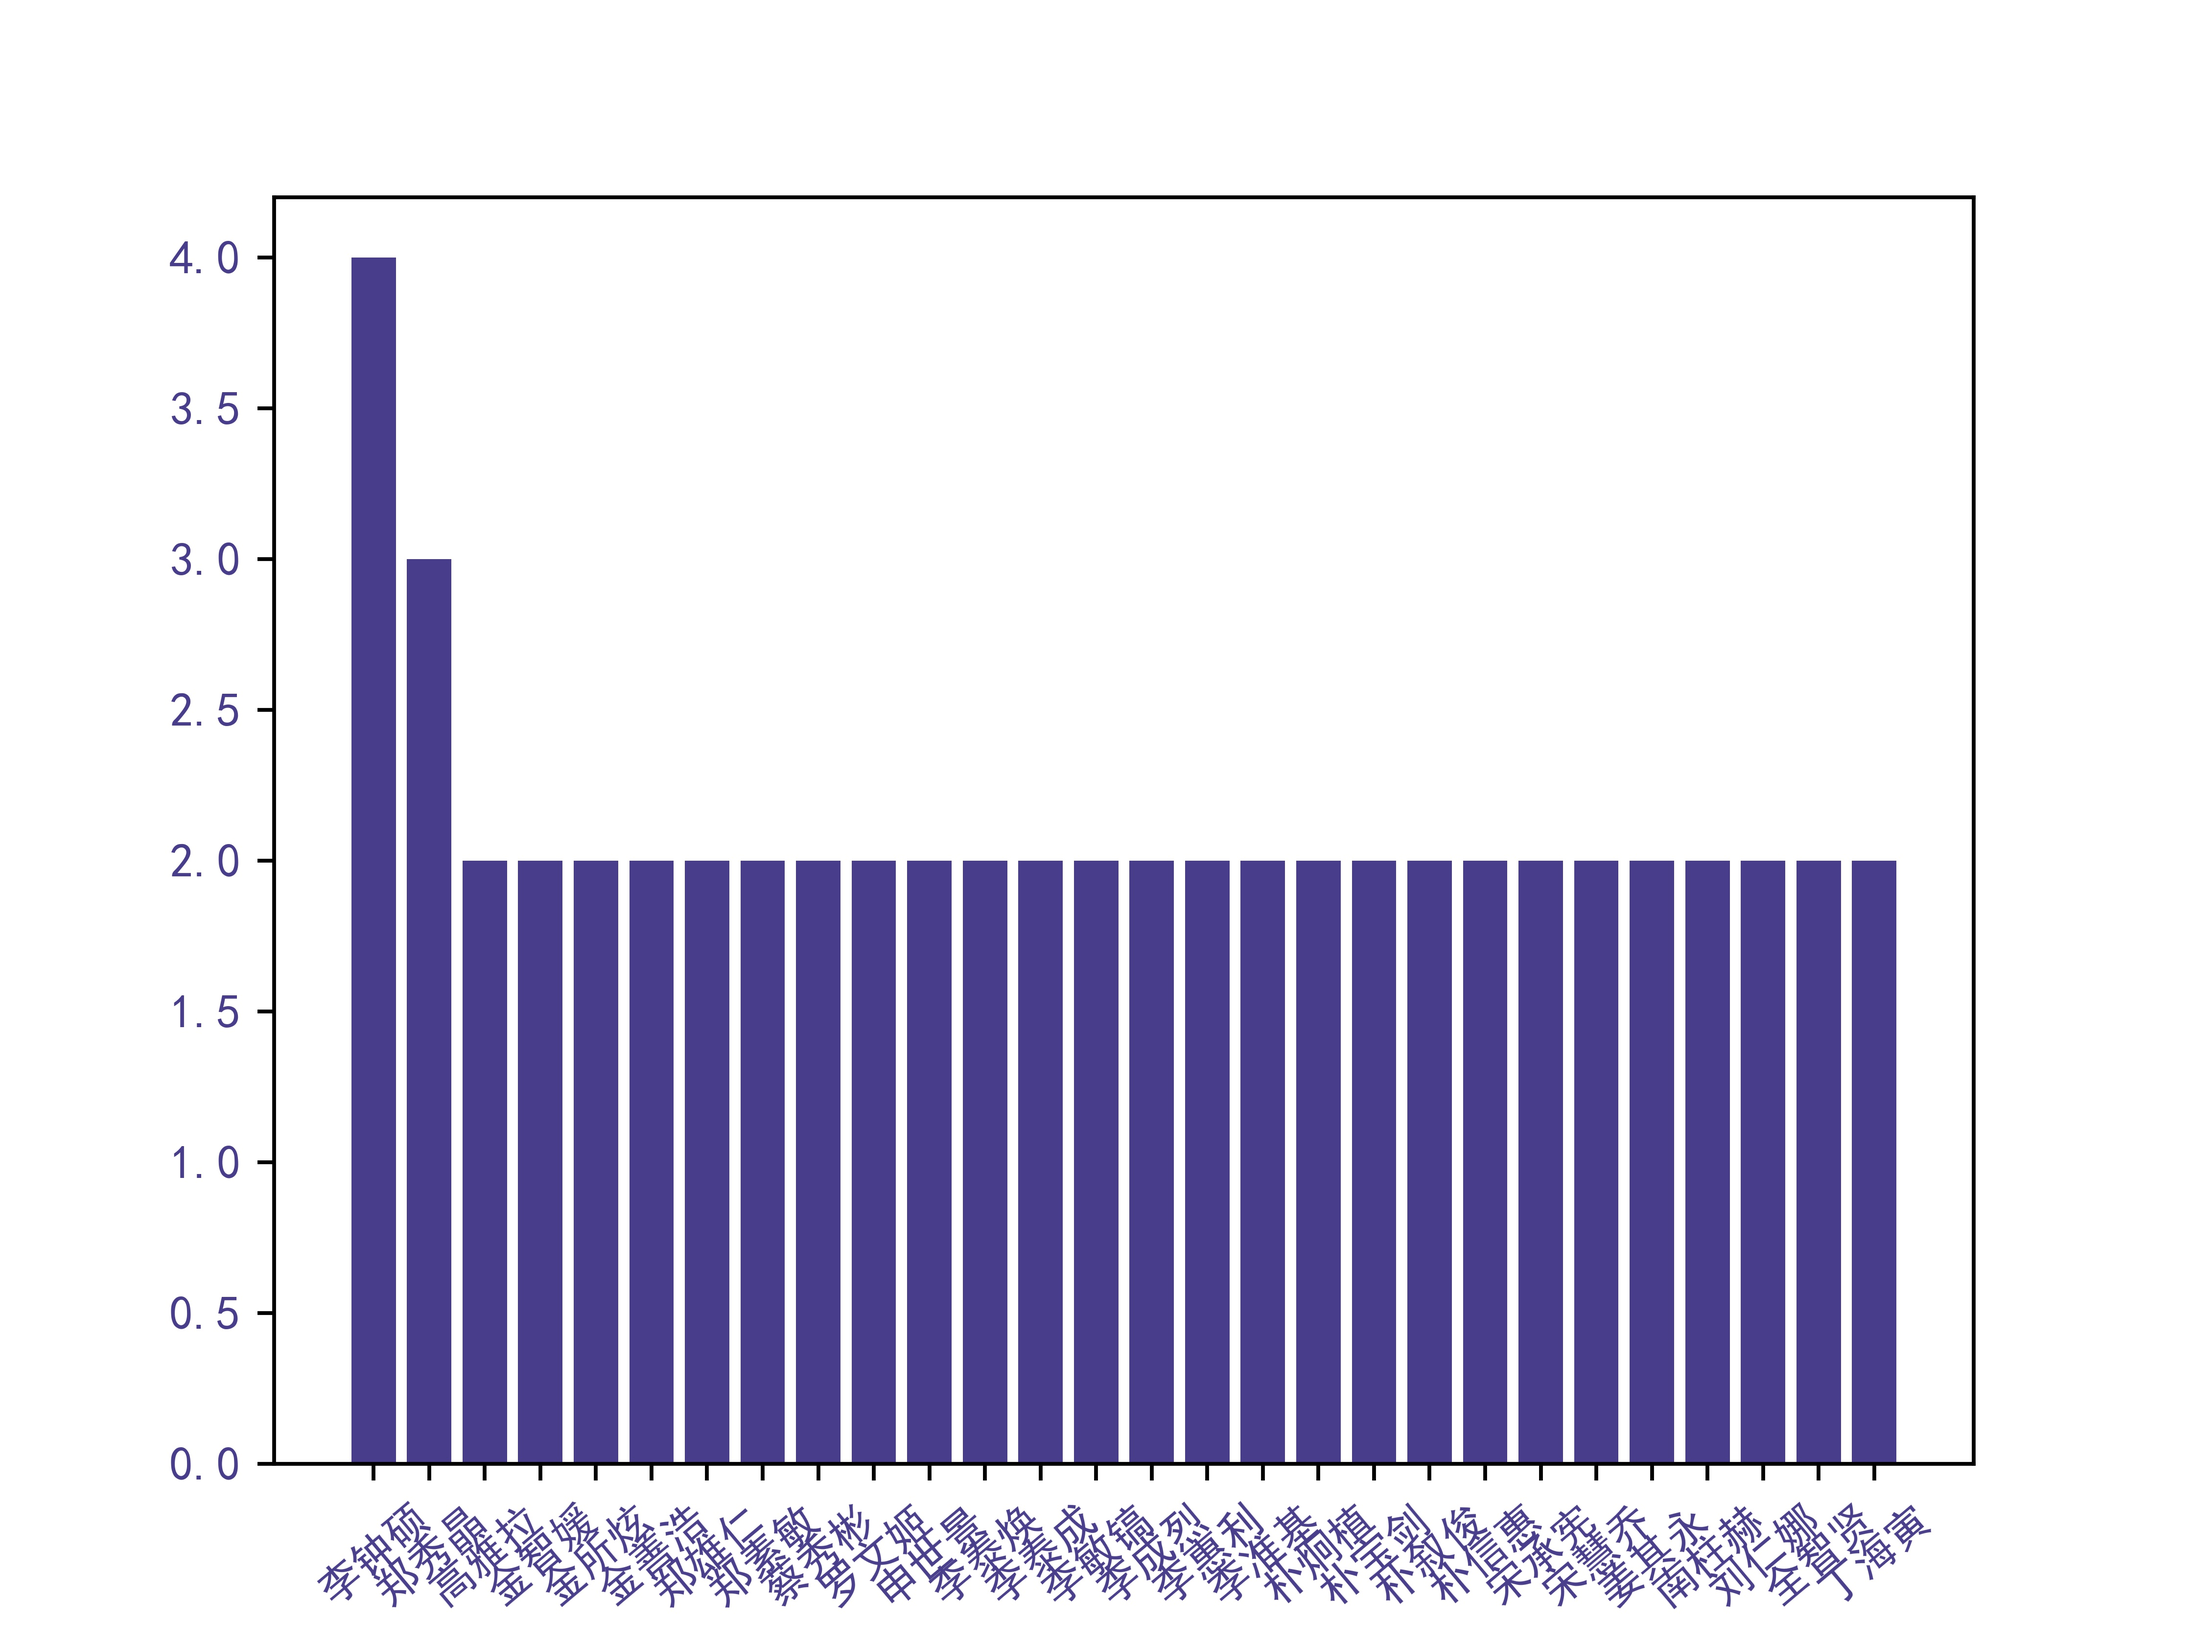
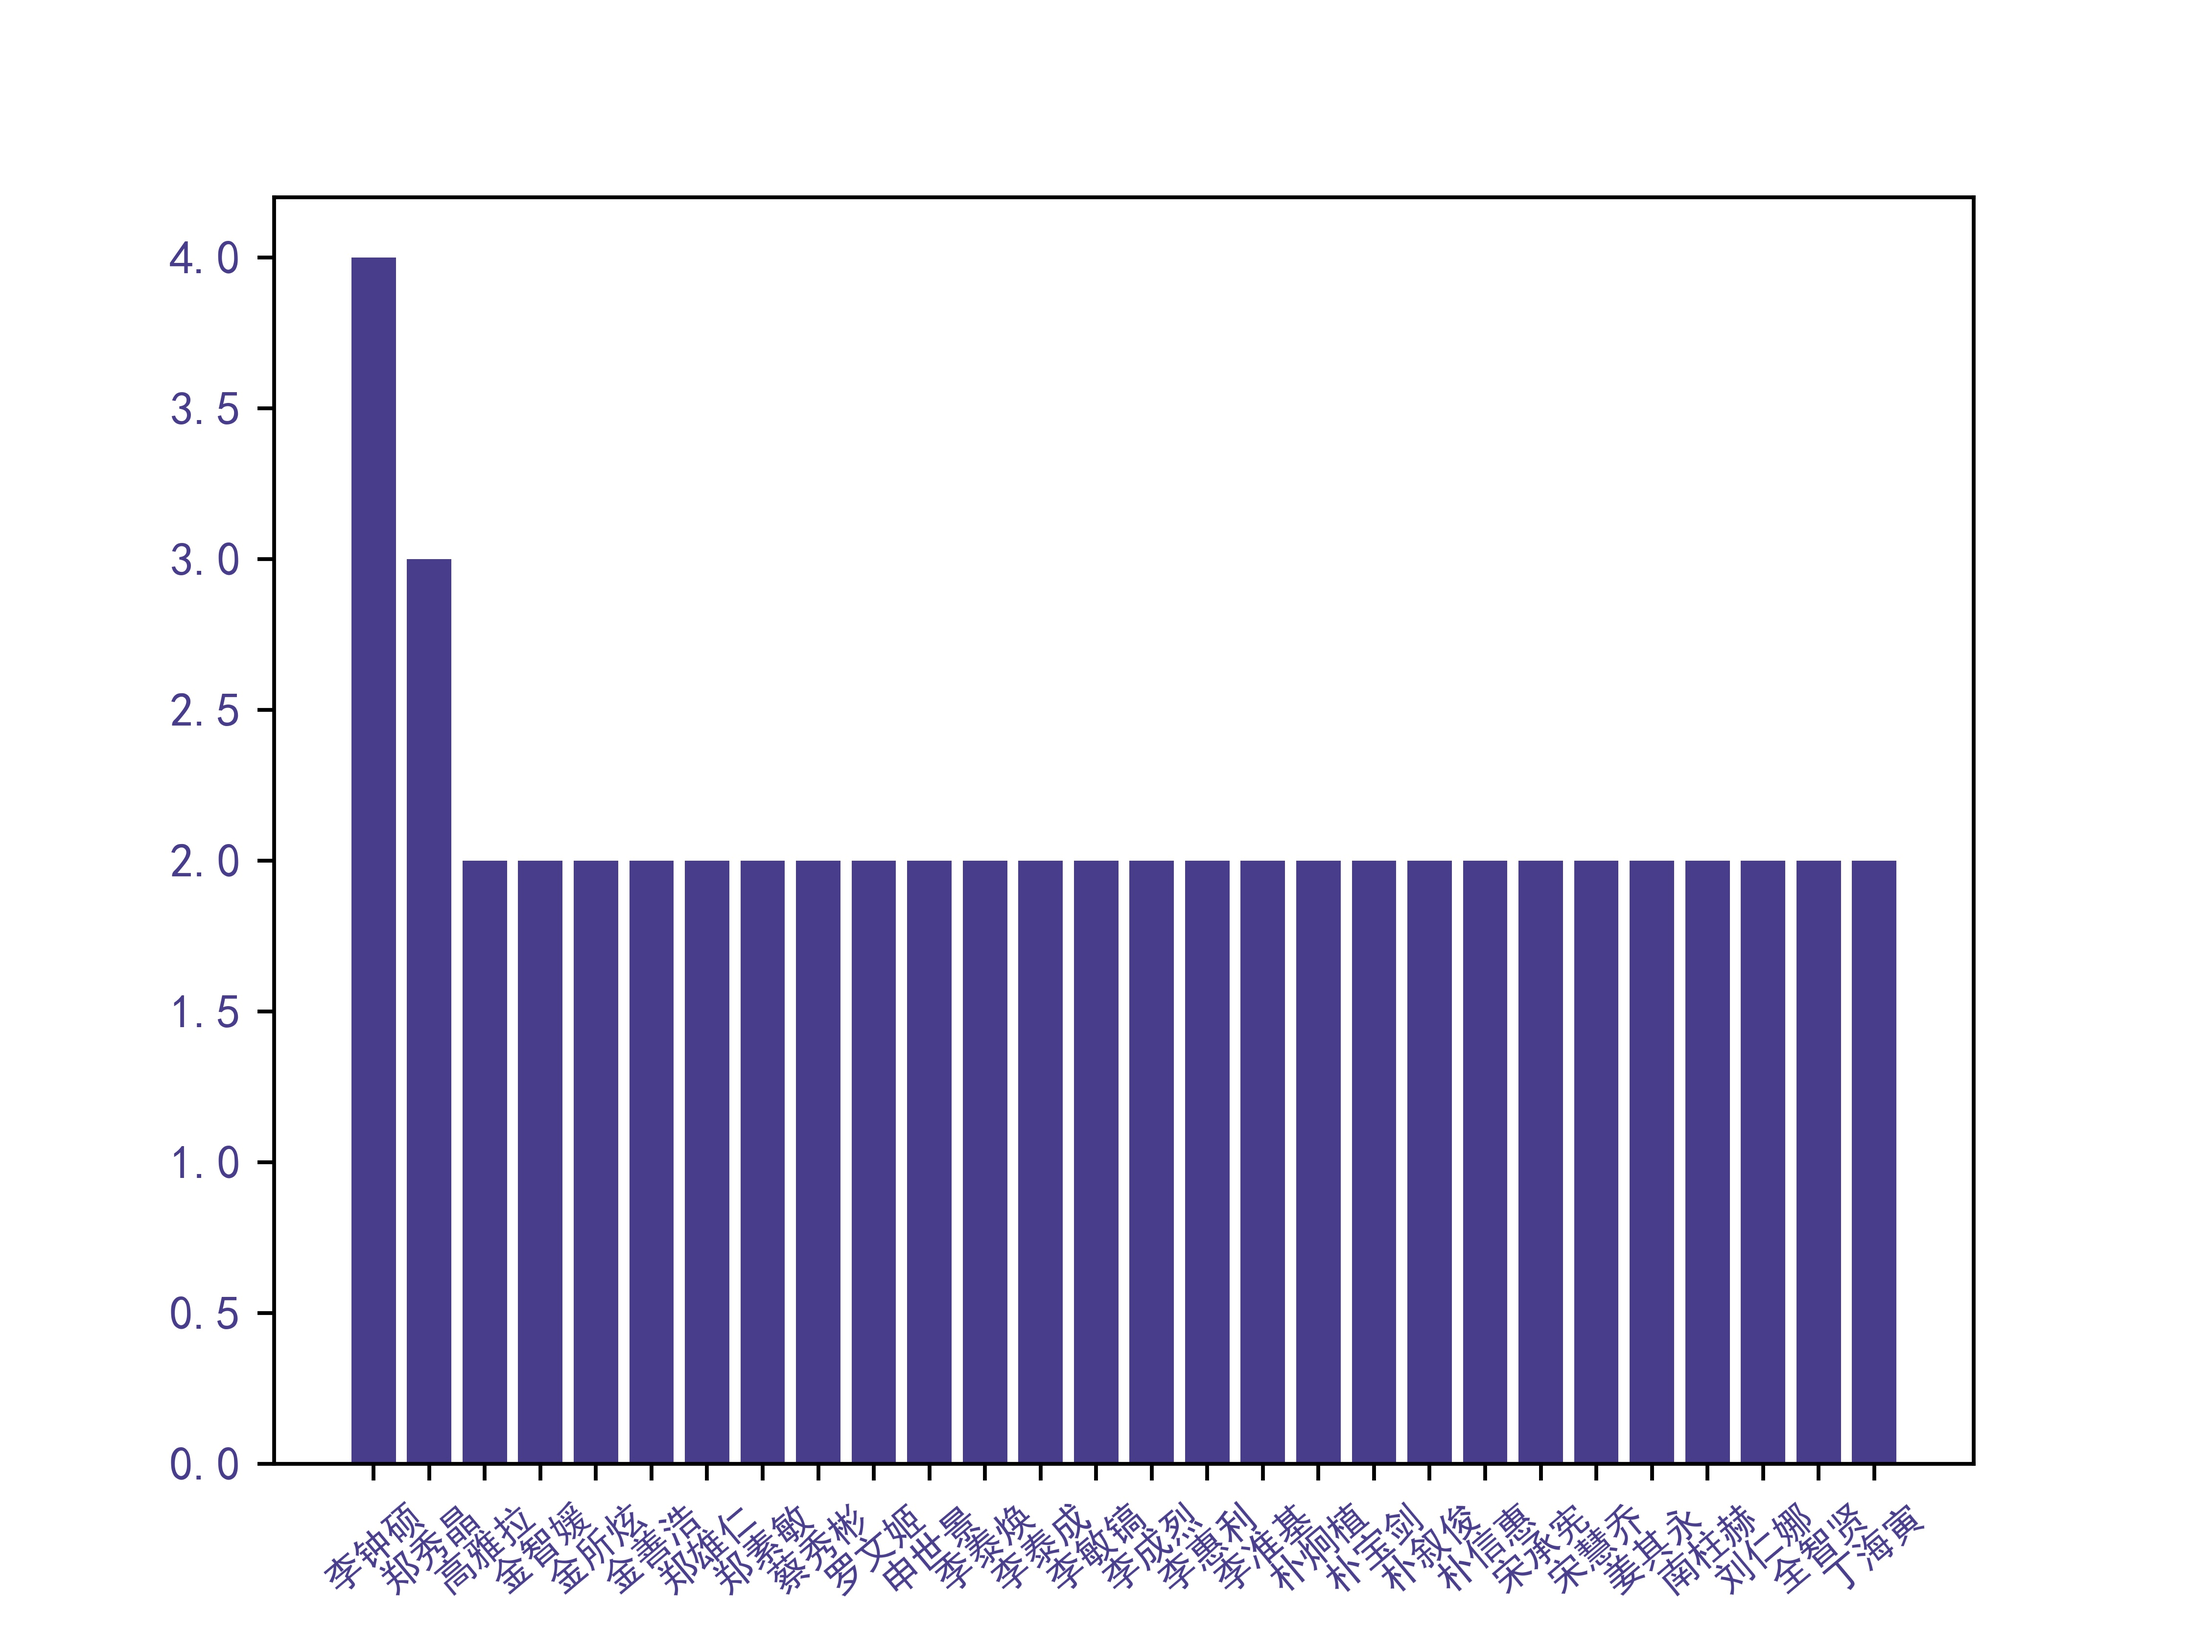
A small change

Changed region(s): [[0.125, 0.9062, 0.875, 0.9688]]

diff --git a/analysis.py b/analysis.py
@@ -39,7 +39,7 @@ for i in range(len(result)):
 
 plt.rcParams['savefig.dpi'] = 700
 plt.rcParams['figure.dpi'] = 700
-plt.xticks(fontsize = 9)
+plt.xticks(fontsize = 8)
 pl.xticks(rotation = 40)
 pl.xticks(color = '#483d8b')
 pl.yticks(color = '#483d8b')
